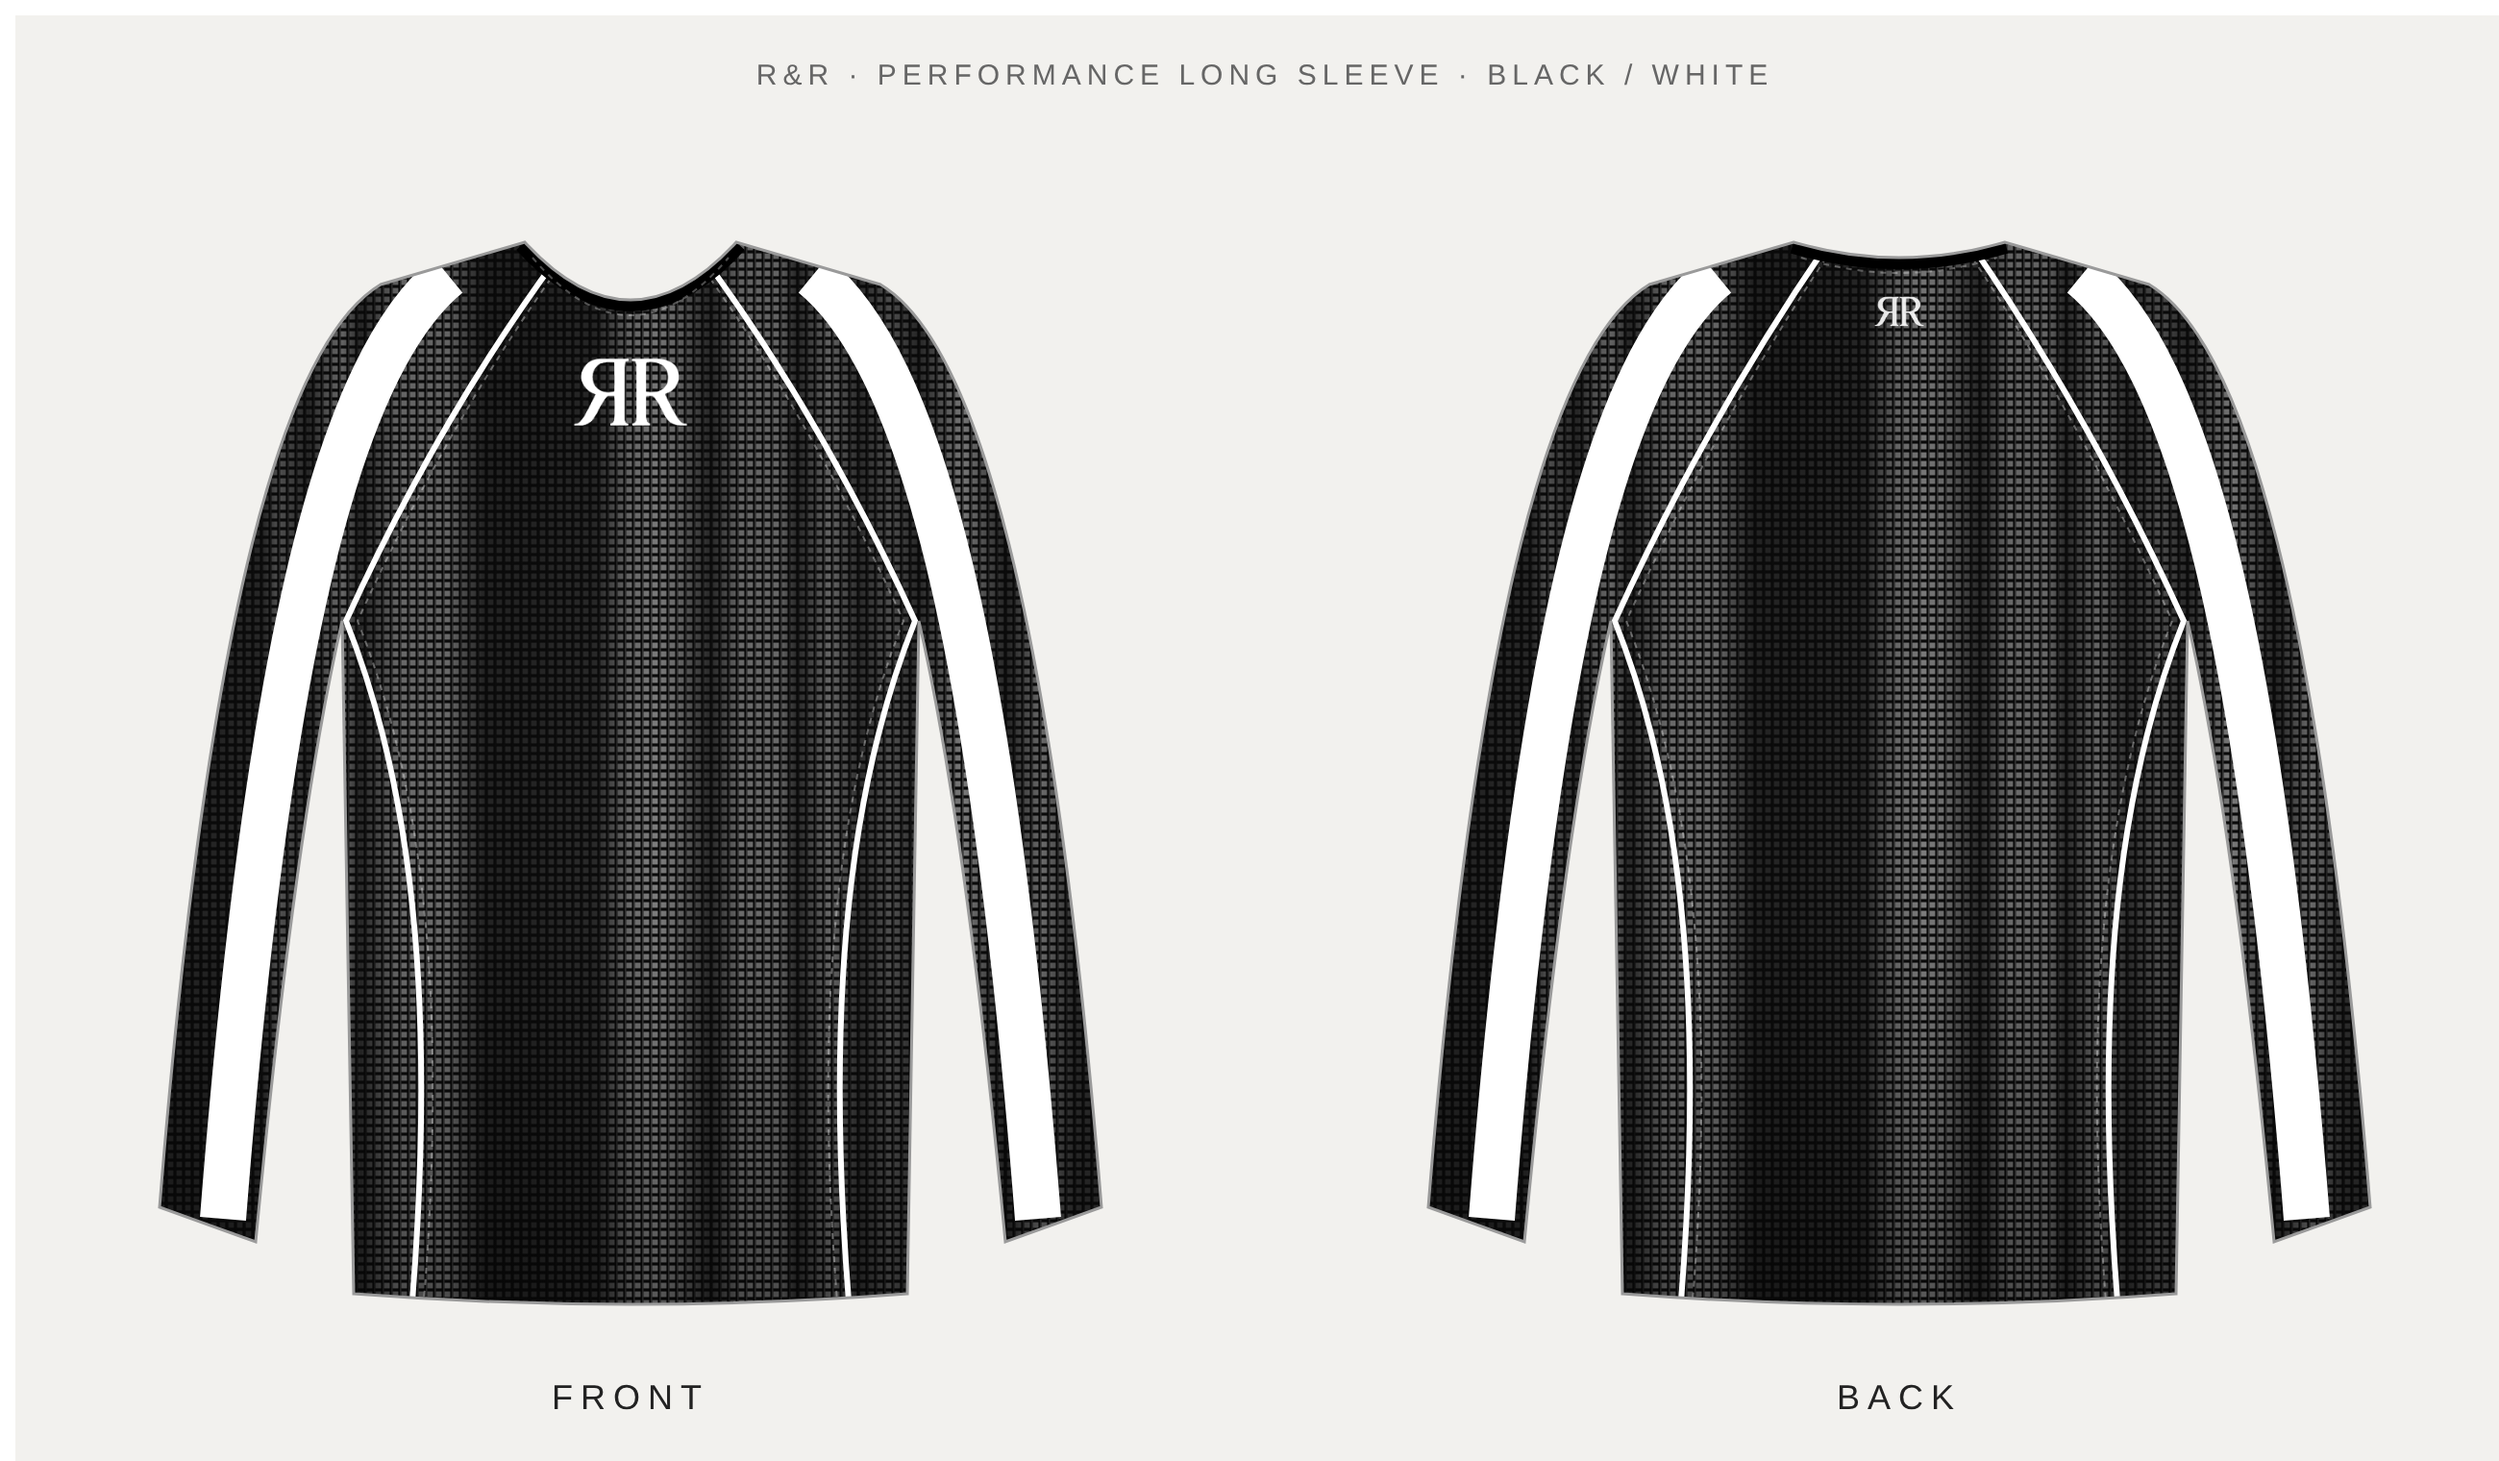
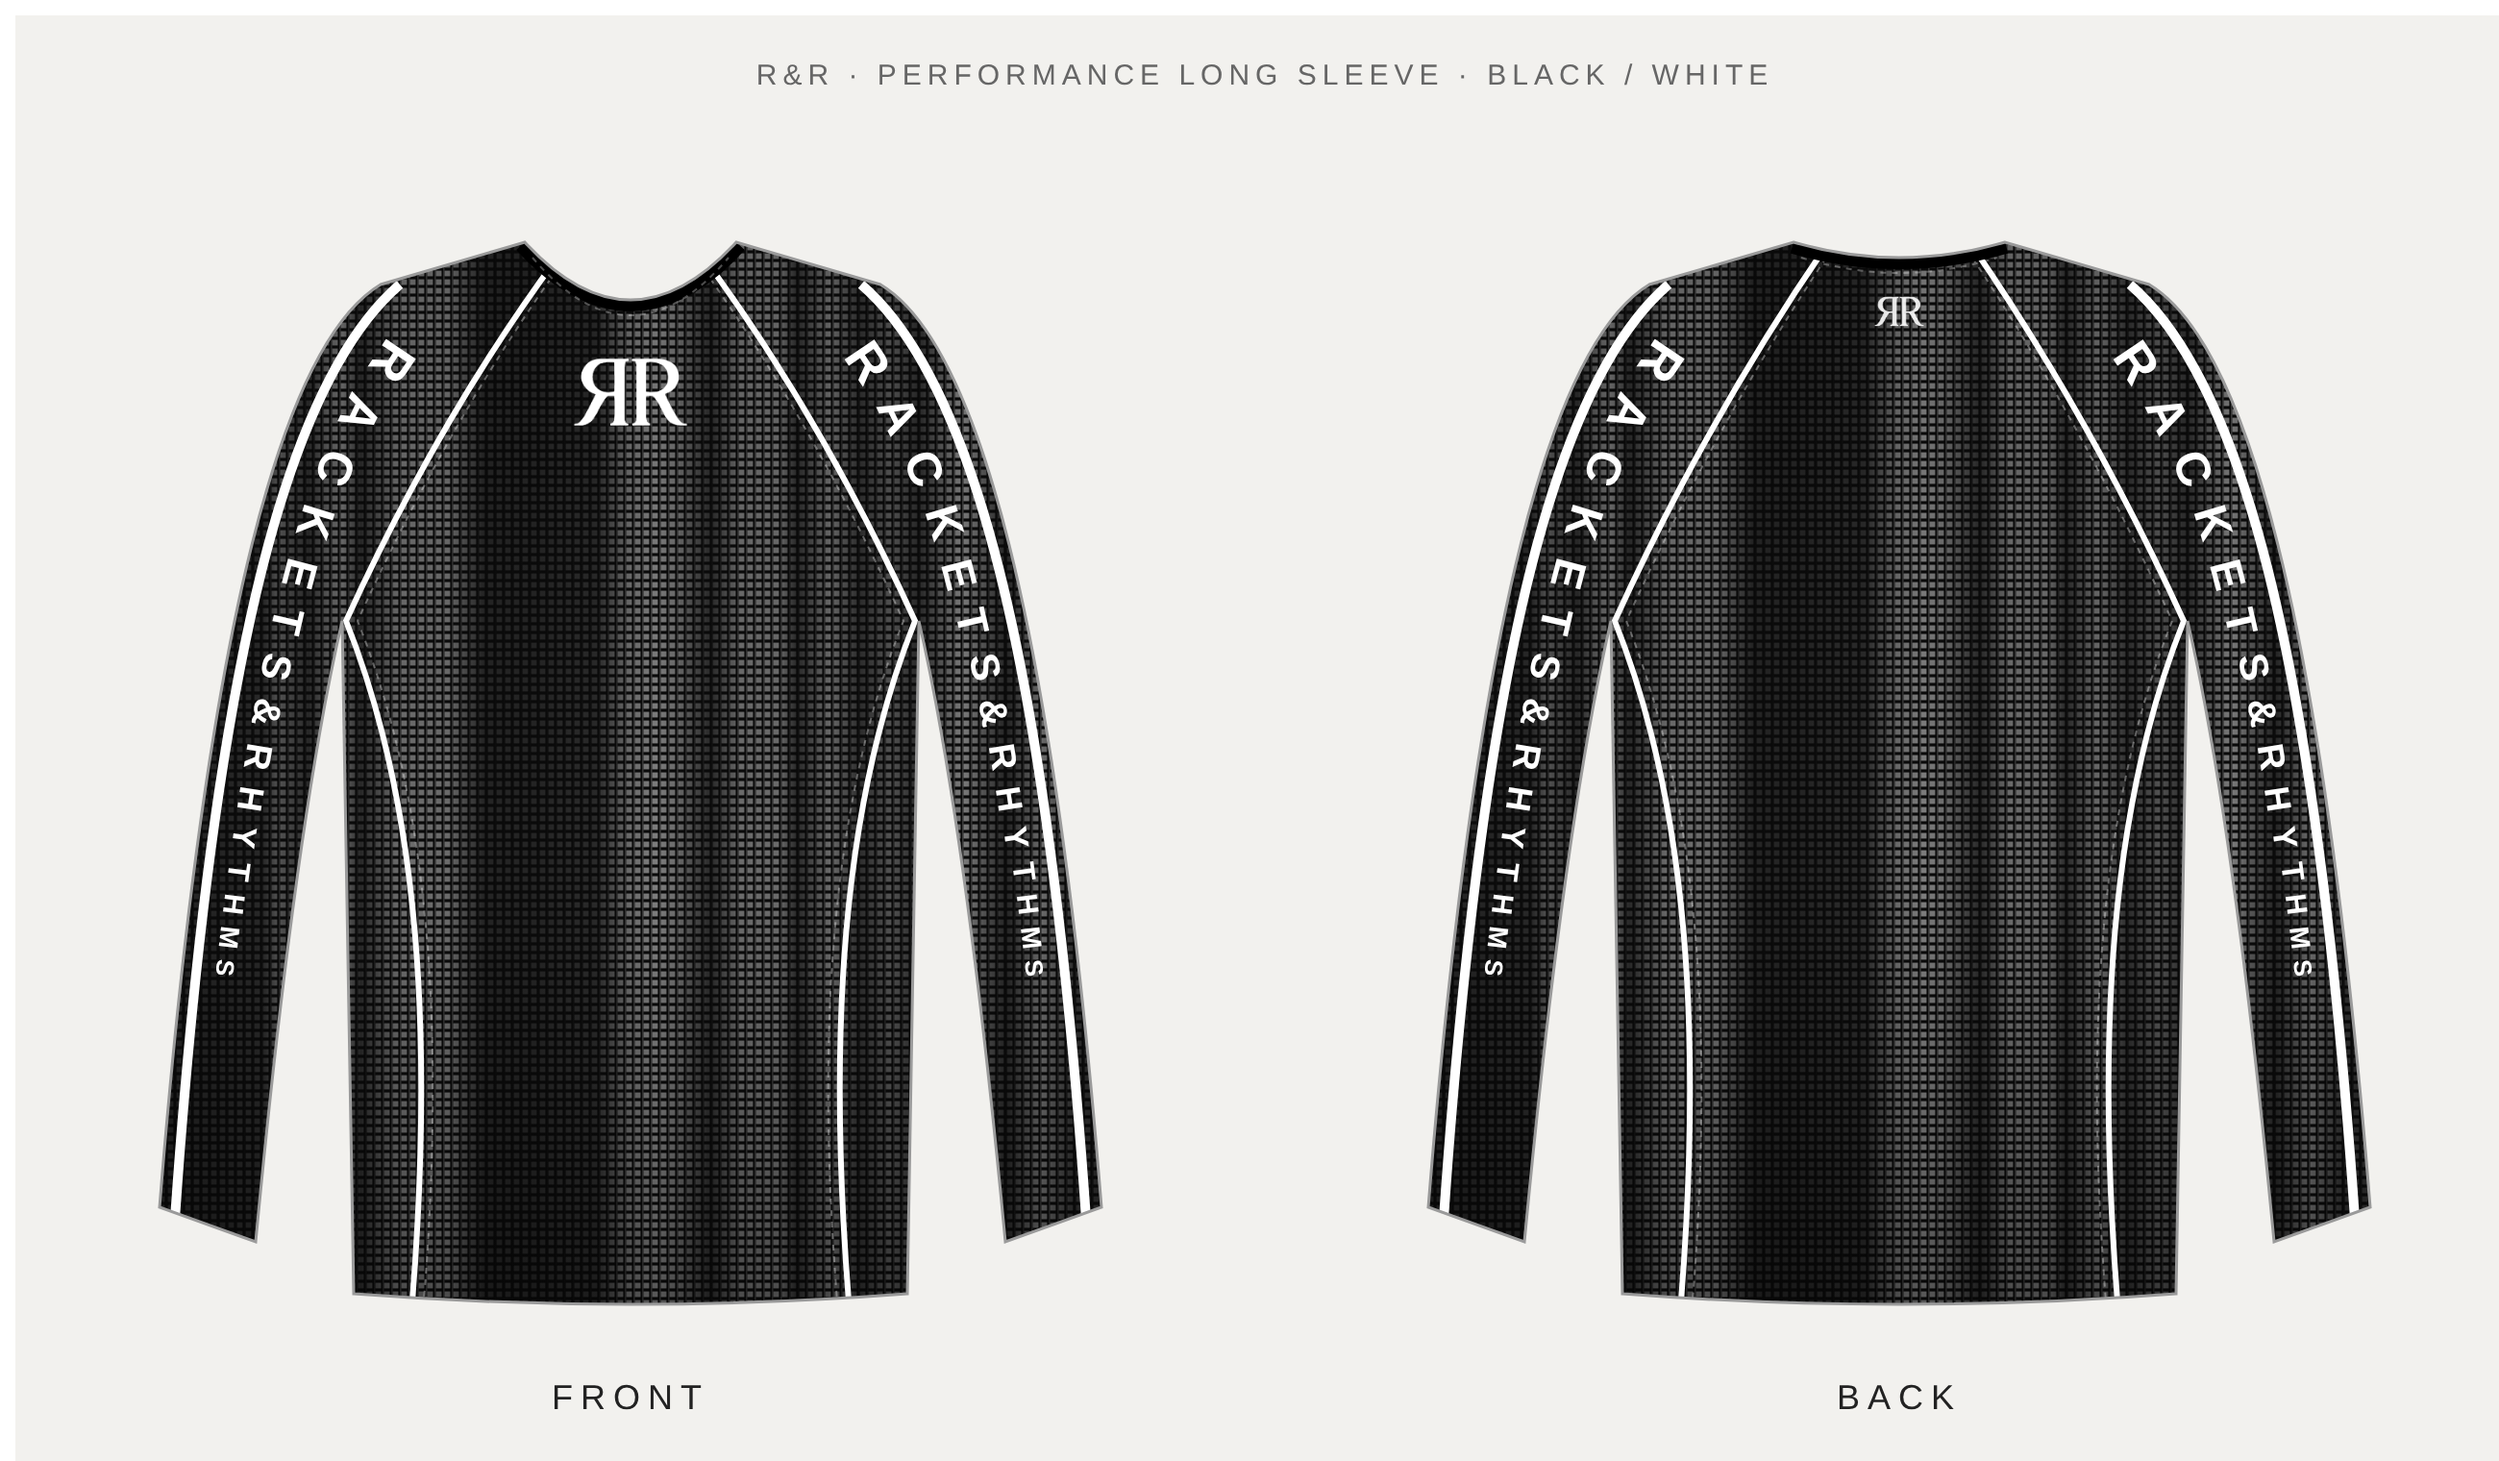
R&R long sleeve: thinner sleeve strip, tapered RACKETS&RHYTHMS sleeve text
Claude-Session: https://claude.ai/code/session_01WZ99Q15bQn4LeAbY3LTmXr

diff --git a/designs/rr-longsleeve/index.html b/designs/rr-longsleeve/index.html
@@ -27,8 +27,14 @@
       <rect width="600" height="720" fill="url(#pin)" mask="url(#bandmask)" opacity=".2"/>
       <rect width="600" height="720" fill="url(#vfade)"/>
       <!-- sleeve strips -->
-      <path d="M205 75 C150 120 112 260 88 566" stroke="#fff" stroke-width="24" fill="none"/>
-      <path d="M395 75 C450 120 488 260 512 566" stroke="#fff" stroke-width="24" fill="none"/>
+      <path d="M180 80 C124 128 84 264 63 566" stroke="#fff" stroke-width="5" fill="none"/>
+      <path d="M420 80 C476 128 516 264 537 566" stroke="#fff" stroke-width="5" fill="none"/>
+      <path id="tl-front" d="M190 92 C134 138 95 270 73 560" fill="none"/>
+      <path id="tr-front" d="M410 92 C466 138 505 270 527 560" fill="none"/>
+      <g font-family="'DIN Condensed','Arial Narrow','Liberation Sans Narrow','Liberation Sans',sans-serif" font-weight="700" fill="#fff">
+        <text><textPath href="#tl-front" startOffset="22"><tspan font-size="27.0" letter-spacing="14.0">R</tspan><tspan font-size="26.0" letter-spacing="13.4">A</tspan><tspan font-size="25.0" letter-spacing="12.7">C</tspan><tspan font-size="24.0" letter-spacing="12.1">K</tspan><tspan font-size="23.0" letter-spacing="11.4">E</tspan><tspan font-size="22.0" letter-spacing="10.8">T</tspan><tspan font-size="21.0" letter-spacing="10.1">S</tspan><tspan font-size="20.0" letter-spacing="9.5">&amp;</tspan><tspan font-size="19.0" letter-spacing="8.9">R</tspan><tspan font-size="18.0" letter-spacing="8.2">H</tspan><tspan font-size="17.0" letter-spacing="7.6">Y</tspan><tspan font-size="16.0" letter-spacing="6.9">T</tspan><tspan font-size="15.0" letter-spacing="6.3">H</tspan><tspan font-size="14.0" letter-spacing="5.6">M</tspan><tspan font-size="13.0" letter-spacing="5.0">S</tspan></textPath></text>
+        <text dominant-baseline="hanging"><textPath href="#tr-front" startOffset="22"><tspan font-size="27.0" letter-spacing="14.0">R</tspan><tspan font-size="26.0" letter-spacing="13.4">A</tspan><tspan font-size="25.0" letter-spacing="12.7">C</tspan><tspan font-size="24.0" letter-spacing="12.1">K</tspan><tspan font-size="23.0" letter-spacing="11.4">E</tspan><tspan font-size="22.0" letter-spacing="10.8">T</tspan><tspan font-size="21.0" letter-spacing="10.1">S</tspan><tspan font-size="20.0" letter-spacing="9.5">&amp;</tspan><tspan font-size="19.0" letter-spacing="8.9">R</tspan><tspan font-size="18.0" letter-spacing="8.2">H</tspan><tspan font-size="17.0" letter-spacing="7.6">Y</tspan><tspan font-size="16.0" letter-spacing="6.9">T</tspan><tspan font-size="15.0" letter-spacing="6.3">H</tspan><tspan font-size="14.0" letter-spacing="5.6">M</tspan><tspan font-size="13.0" letter-spacing="5.0">S</tspan></textPath></text>
+      </g>
       <!-- cuffs -->
       <path d="M55 560 L105 578 L101 606 L50 588 Z" fill="#000"/>
       <path d="M545 560 L495 578 L499 606 L550 588 Z" fill="#000"/>
@@ -58,8 +64,14 @@
       <rect width="600" height="720" fill="url(#pin)" mask="url(#bandmask)" opacity=".2"/>
       <rect width="600" height="720" fill="url(#vfade)"/>
       <!-- sleeve strips -->
-      <path d="M205 75 C150 120 112 260 88 566" stroke="#fff" stroke-width="24" fill="none"/>
-      <path d="M395 75 C450 120 488 260 512 566" stroke="#fff" stroke-width="24" fill="none"/>
+      <path d="M180 80 C124 128 84 264 63 566" stroke="#fff" stroke-width="5" fill="none"/>
+      <path d="M420 80 C476 128 516 264 537 566" stroke="#fff" stroke-width="5" fill="none"/>
+      <path id="tl-back" d="M190 92 C134 138 95 270 73 560" fill="none"/>
+      <path id="tr-back" d="M410 92 C466 138 505 270 527 560" fill="none"/>
+      <g font-family="'DIN Condensed','Arial Narrow','Liberation Sans Narrow','Liberation Sans',sans-serif" font-weight="700" fill="#fff">
+        <text><textPath href="#tl-back" startOffset="22"><tspan font-size="27.0" letter-spacing="14.0">R</tspan><tspan font-size="26.0" letter-spacing="13.4">A</tspan><tspan font-size="25.0" letter-spacing="12.7">C</tspan><tspan font-size="24.0" letter-spacing="12.1">K</tspan><tspan font-size="23.0" letter-spacing="11.4">E</tspan><tspan font-size="22.0" letter-spacing="10.8">T</tspan><tspan font-size="21.0" letter-spacing="10.1">S</tspan><tspan font-size="20.0" letter-spacing="9.5">&amp;</tspan><tspan font-size="19.0" letter-spacing="8.9">R</tspan><tspan font-size="18.0" letter-spacing="8.2">H</tspan><tspan font-size="17.0" letter-spacing="7.6">Y</tspan><tspan font-size="16.0" letter-spacing="6.9">T</tspan><tspan font-size="15.0" letter-spacing="6.3">H</tspan><tspan font-size="14.0" letter-spacing="5.6">M</tspan><tspan font-size="13.0" letter-spacing="5.0">S</tspan></textPath></text>
+        <text dominant-baseline="hanging"><textPath href="#tr-back" startOffset="22"><tspan font-size="27.0" letter-spacing="14.0">R</tspan><tspan font-size="26.0" letter-spacing="13.4">A</tspan><tspan font-size="25.0" letter-spacing="12.7">C</tspan><tspan font-size="24.0" letter-spacing="12.1">K</tspan><tspan font-size="23.0" letter-spacing="11.4">E</tspan><tspan font-size="22.0" letter-spacing="10.8">T</tspan><tspan font-size="21.0" letter-spacing="10.1">S</tspan><tspan font-size="20.0" letter-spacing="9.5">&amp;</tspan><tspan font-size="19.0" letter-spacing="8.9">R</tspan><tspan font-size="18.0" letter-spacing="8.2">H</tspan><tspan font-size="17.0" letter-spacing="7.6">Y</tspan><tspan font-size="16.0" letter-spacing="6.9">T</tspan><tspan font-size="15.0" letter-spacing="6.3">H</tspan><tspan font-size="14.0" letter-spacing="5.6">M</tspan><tspan font-size="13.0" letter-spacing="5.0">S</tspan></textPath></text>
+      </g>
       <!-- cuffs -->
       <path d="M55 560 L105 578 L101 606 L50 588 Z" fill="#000"/>
       <path d="M545 560 L495 578 L499 606 L550 588 Z" fill="#000"/>

diff --git a/designs/rr-longsleeve/build.py b/designs/rr-longsleeve/build.py
@@ -10,6 +10,10 @@ while x < 1.0:
     stops.append(f'<stop offset="{x:.3f}" stop-color="#fff" stop-opacity="{random.choice([0.05,0.1,0.15,0.55,0.8,1.0]):.2f}"/>')
     x += random.uniform(0.012, 0.045)
 
+TEXT = "RACKETS&RHYTHMS"
+N = len(TEXT)
+WORD = "".join(f'<tspan font-size="{27 - 14*i/(N-1):.1f}" letter-spacing="{14 - 9*i/(N-1):.1f}">{c.replace("&","&amp;")}</tspan>' for i, c in enumerate(TEXT))
+
 def body(neck_ctrl_y):
     return (f"M245 58 Q300 {neck_ctrl_y} 355 58 L430 80 C480 110 520 250 545 560 L495 578 "
             "C480 420 465 320 450 255 C448 380 446 500 444 605 Q300 616 156 605 "
@@ -29,8 +33,14 @@ def view(vid, neck_ctrl_y, front):
       <rect width="600" height="720" fill="url(#pin)" mask="url(#bandmask)" opacity=".2"/>
       <rect width="600" height="720" fill="url(#vfade)"/>
       <!-- sleeve strips -->
-      <path d="M205 75 C150 120 112 260 88 566" stroke="#fff" stroke-width="24" fill="none"/>
-      <path d="M395 75 C450 120 488 260 512 566" stroke="#fff" stroke-width="24" fill="none"/>
+      <path d="M180 80 C124 128 84 264 63 566" stroke="#fff" stroke-width="5" fill="none"/>
+      <path d="M420 80 C476 128 516 264 537 566" stroke="#fff" stroke-width="5" fill="none"/>
+      <path id="tl-{vid}" d="M190 92 C134 138 95 270 73 560" fill="none"/>
+      <path id="tr-{vid}" d="M410 92 C466 138 505 270 527 560" fill="none"/>
+      <g font-family="'DIN Condensed','Arial Narrow','Liberation Sans Narrow','Liberation Sans',sans-serif" font-weight="700" fill="#fff">
+        <text><textPath href="#tl-{vid}" startOffset="22">{WORD}</textPath></text>
+        <text dominant-baseline="hanging"><textPath href="#tr-{vid}" startOffset="22">{WORD}</textPath></text>
+      </g>
       <!-- cuffs -->
       <path d="M55 560 L105 578 L101 606 L50 588 Z" fill="#000"/>
       <path d="M545 560 L495 578 L499 606 L550 588 Z" fill="#000"/>
